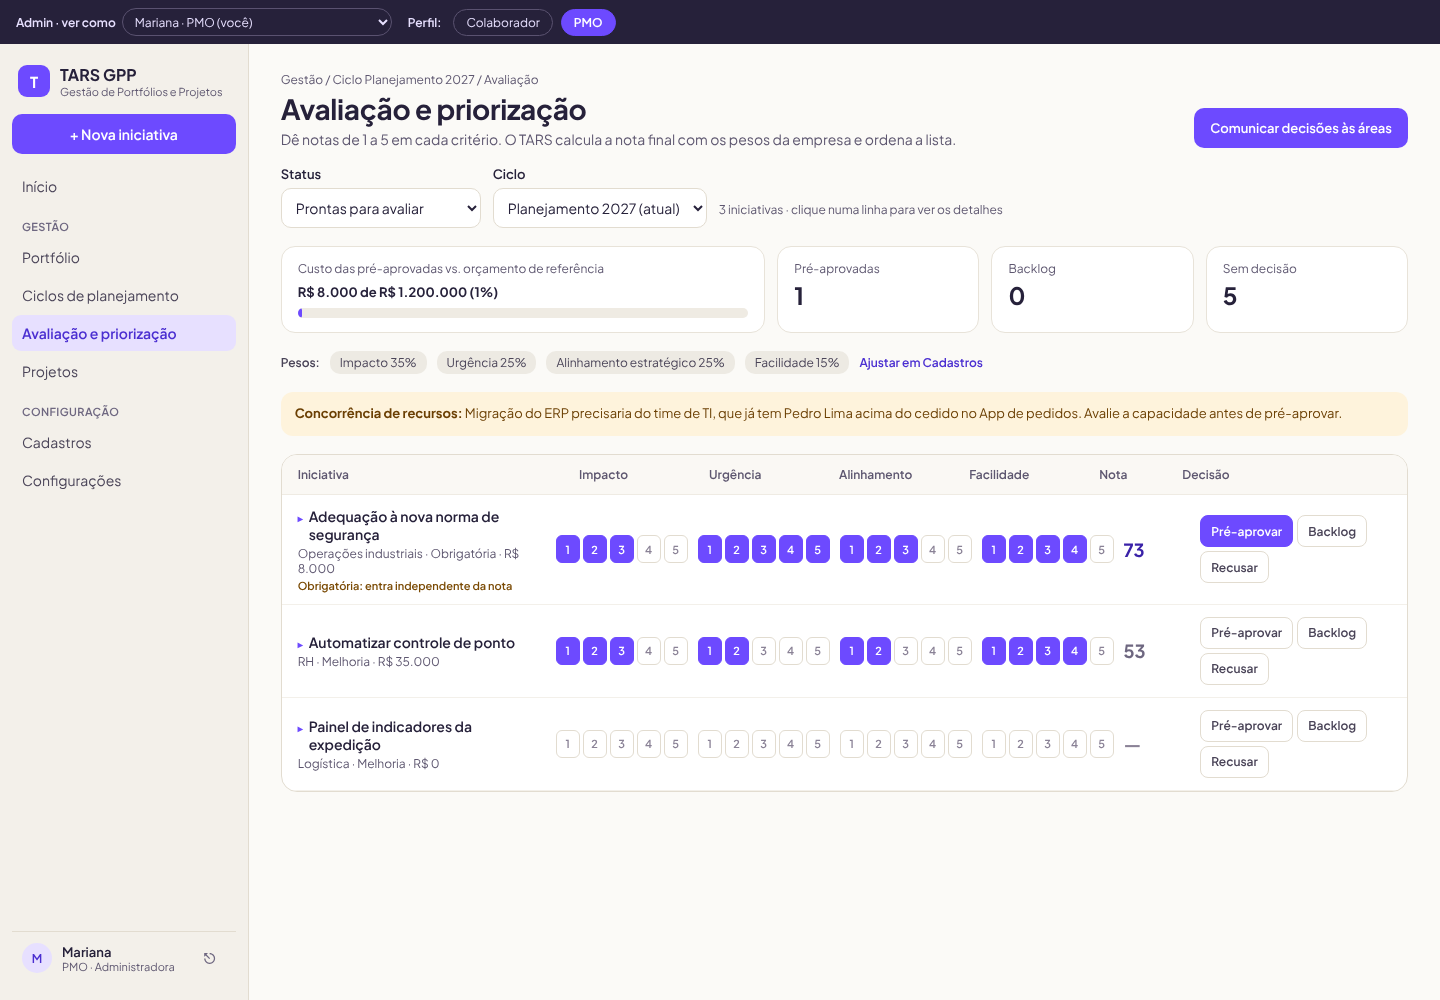
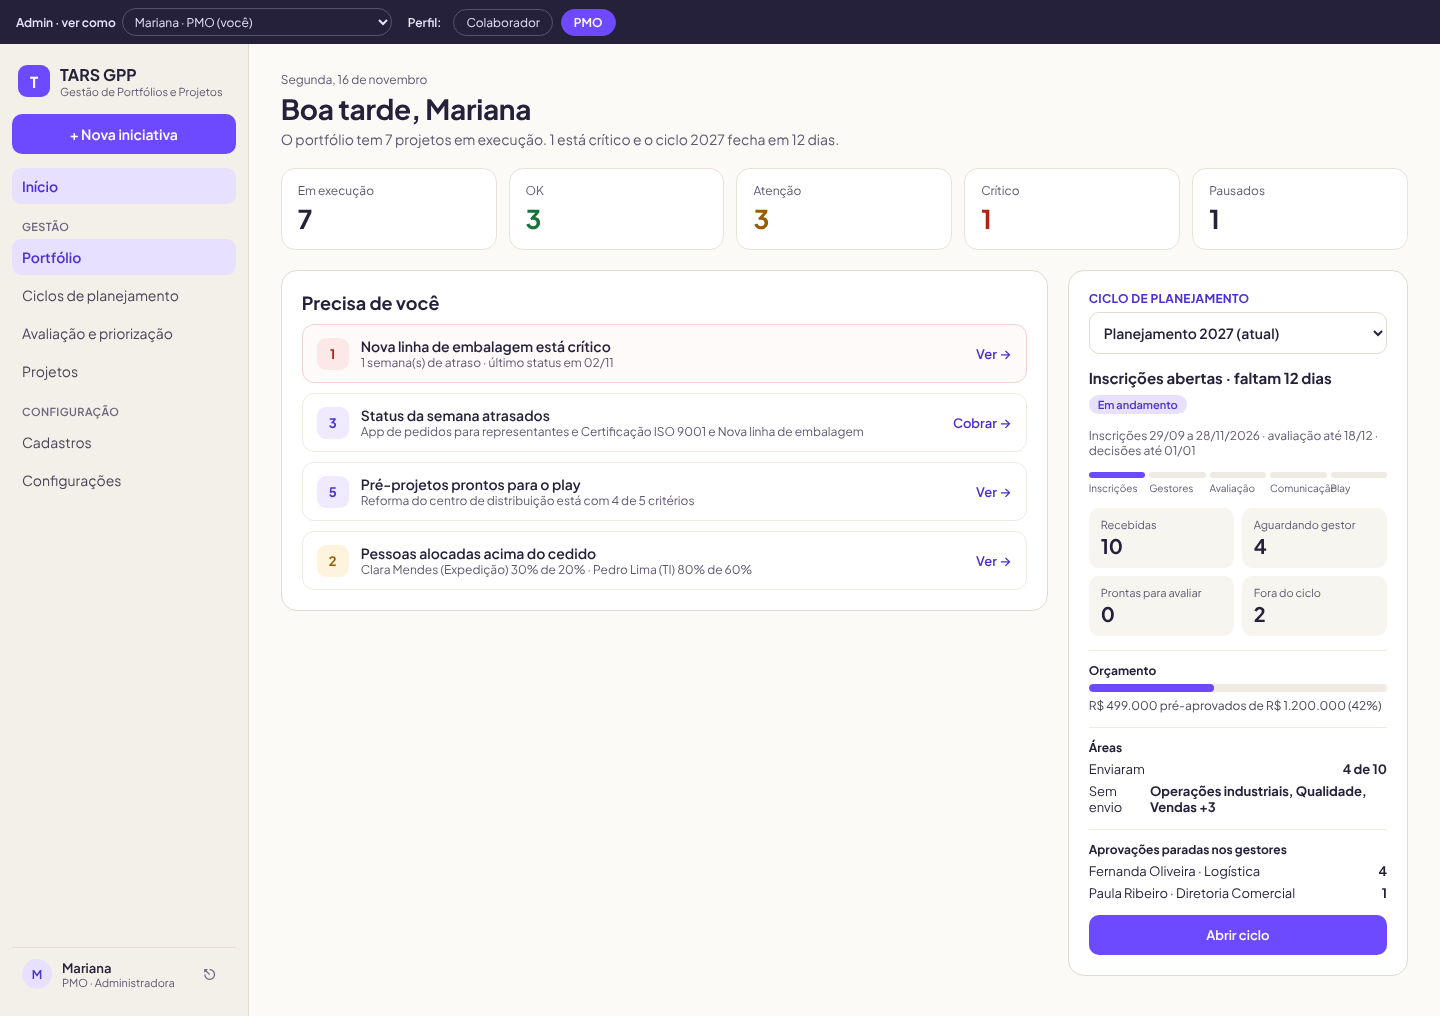
Lentidão: dados numa leva só e retorno visual ao navegar
- carregarOrg: as ~18 consultas saem juntas. As tabelas dos projetos são
  filtradas pela empresa com subconsulta, em vez de esperar a lista de
  iniciativas (eram 3 levas em sequência).
- Pool de conexões de 5 para 20, para as consultas não irem em levas.
- "Ver como" do admin reaproveita a foto da empresa (menos uma etapa).
- Alocações em ordem estável (cadastro de pessoas); antes dependia do banco.
- Barra de carregamento no topo ao clicar em qualquer link interno, e o
  item do menu clicado já aparece selecionado (useLinkStatus).
- e2e: passo novo da barra de carregamento.

Medido com build de produção e banco a 100 ms de distância:
~1,5 s → ~0,43 s por página.

Claude-Session: https://claude.ai/code/session_01PpkADpqr2ygvaZxjuMP9th

diff --git a/src/lib/dados.ts b/src/lib/dados.ts
@@ -1,10 +1,12 @@
 import 'server-only';
 import { cache } from 'react';
-import { eq, inArray } from 'drizzle-orm';
+import { eq, inArray, sql } from 'drizzle-orm';
 import { db, schema as t } from '@/db';
 import type { Raia } from './regras/esteira';
 
-// Carrega a "foto" da empresa numa ida ao banco (consultas em paralelo).
+// Carrega a "foto" da empresa numa ida ao banco: todas as consultas saem juntas, em paralelo.
+// As tabelas dos projetos (fases, tarefas, alocações...) são filtradas pela empresa com uma subconsulta,
+// em vez de esperar a lista de iniciativas chegar para só então pedi-las (eram 3 levas em sequência).
 // Para o porte de um portfólio de PME (centenas de iniciativas) isso é simples e rápido,
 // e deixa todas as telas calculando a partir da mesma base. cache() = uma vez por requisição.
 
@@ -29,7 +31,12 @@ export type Modelo = typeof t.modelos.$inferSelect;
 export type DadosOrg = Awaited<ReturnType<typeof carregar>>;
 
 async function carregar(orgId: string) {
-  const [org, areas, pessoas, ciclos, raias, iniciativas, fasesBiblioteca, modelos, pedidos, avaliacoes] = await Promise.all([
+  const iniciativasDoOrg = sql`(select id from iniciativas where org_id = ${orgId})`;
+  const fasesDoOrg = sql`(select f.id from projeto_fases f join iniciativas i on i.id = f.iniciativa_id where i.org_id = ${orgId})`;
+  const [
+    org, areas, pessoas, ciclos, raias, iniciativas, fasesBiblioteca, modelos, pedidos, avaliacoes,
+    fases, alocacoes, tarefas, marcos, riscos, reports, linhasBase, mudancas,
+  ] = await Promise.all([
     db.query.orgs.findFirst({ where: eq(t.orgs.id, orgId) }),
     db.select().from(t.areas).where(eq(t.areas.orgId, orgId)).orderBy(t.areas.ordem),
     db.select().from(t.pessoas).where(eq(t.pessoas.orgId, orgId)).orderBy(t.pessoas.seq),
@@ -40,21 +47,20 @@ async function carregar(orgId: string) {
     db.select().from(t.modelos).where(eq(t.modelos.orgId, orgId)),
     db.select().from(t.pedidosAlocacao).where(eq(t.pedidosAlocacao.orgId, orgId)).orderBy(t.pedidosAlocacao.createdAt),
     db.select().from(t.avaliacoes).where(eq(t.avaliacoes.orgId, orgId)),
+    db.select().from(t.projetoFases).where(inArray(t.projetoFases.iniciativaId, iniciativasDoOrg)).orderBy(t.projetoFases.ordem),
+    db.select().from(t.alocacoes).where(inArray(t.alocacoes.faseId, fasesDoOrg)),
+    db.select().from(t.tarefas).where(inArray(t.tarefas.iniciativaId, iniciativasDoOrg)).orderBy(t.tarefas.prazo, t.tarefas.createdAt),
+    db.select().from(t.marcos).where(inArray(t.marcos.faseId, fasesDoOrg)).orderBy(t.marcos.data),
+    db.select().from(t.riscos).where(inArray(t.riscos.faseId, fasesDoOrg)),
+    db.select().from(t.statusReports).where(inArray(t.statusReports.iniciativaId, iniciativasDoOrg)),
+    db.select().from(t.linhasBase).where(inArray(t.linhasBase.iniciativaId, iniciativasDoOrg)),
+    db.select().from(t.mudancasBase).where(inArray(t.mudancasBase.iniciativaId, iniciativasDoOrg)),
   ]);
   if (!org) throw new Error('Empresa não encontrada');
 
-  const iniIds = iniciativas.map((i) => i.id);
-  const fases = iniIds.length ? await db.select().from(t.projetoFases).where(inArray(t.projetoFases.iniciativaId, iniIds)).orderBy(t.projetoFases.ordem) : [];
-  const faseIds = fases.map((f) => f.id);
-  const [alocacoes, tarefas, marcos, riscos, reports, linhasBase, mudancas] = await Promise.all([
-    faseIds.length ? db.select().from(t.alocacoes).where(inArray(t.alocacoes.faseId, faseIds)) : [],
-    iniIds.length ? db.select().from(t.tarefas).where(inArray(t.tarefas.iniciativaId, iniIds)).orderBy(t.tarefas.prazo, t.tarefas.createdAt) : [],
-    faseIds.length ? db.select().from(t.marcos).where(inArray(t.marcos.faseId, faseIds)).orderBy(t.marcos.data) : [],
-    faseIds.length ? db.select().from(t.riscos).where(inArray(t.riscos.faseId, faseIds)) : [],
-    iniIds.length ? db.select().from(t.statusReports).where(inArray(t.statusReports.iniciativaId, iniIds)) : [],
-    iniIds.length ? db.select().from(t.linhasBase).where(inArray(t.linhasBase.iniciativaId, iniIds)) : [],
-    iniIds.length ? db.select().from(t.mudancasBase).where(inArray(t.mudancasBase.iniciativaId, iniIds)) : [],
-  ]);
+  // Ordem estável das alocações (antes dependia de como o banco devolvia as linhas): pela ordem do cadastro de pessoas.
+  const posicao = new Map(pessoas.map((p, i) => [p.id, i]));
+  alocacoes.sort((a, b) => (posicao.get(a.pessoaId) ?? 1e9) - (posicao.get(b.pessoaId) ?? 1e9));
 
   return {
     org, areas, pessoas, ciclos, raias: raias as unknown as (Raia & typeof raias[number])[], iniciativas, fasesBiblioteca, modelos,

diff --git a/src/components/Navegacao.tsx b/src/components/Navegacao.tsx
@@ -1,0 +1,71 @@
+'use client';
+
+import { Suspense, useEffect, useState } from 'react';
+import Link, { useLinkStatus } from 'next/link';
+import { usePathname, useSearchParams } from 'next/navigation';
+
+// Retorno visual imediato ao navegar: as páginas são montadas no servidor, então entre o clique
+// e a tela nova há uma espera. Sem sinal nenhum, parece que o app travou.
+
+const KEYFRAMES = '@keyframes tars-carregando { 0% { transform: translateX(-100%) } 100% { transform: translateX(250%) } }';
+
+function Barra() {
+  return (
+    <div role="progressbar" aria-label="Carregando" style={{ position: 'fixed', top: 0, left: 0, right: 0, height: 3, zIndex: 1000, overflow: 'hidden', background: 'rgba(109, 74, 255, 0.15)' }}>
+      <style>{KEYFRAMES}</style>
+      <div style={{ width: '40%', height: '100%', background: '#6D4AFF', animation: 'tars-carregando 1s ease-in-out infinite' }} />
+    </div>
+  );
+}
+
+/** Barra de progresso no topo enquanto qualquer link interno carrega a próxima tela. */
+function BarraDeNavegacaoInterna() {
+  const pathname = usePathname();
+  const busca = useSearchParams();
+  const [carregando, setCarregando] = useState(false);
+
+  // chegou na tela nova: some a barra
+  useEffect(() => setCarregando(false), [pathname, busca]);
+
+  useEffect(() => {
+    function aoClicar(e: MouseEvent) {
+      if (e.button !== 0 || e.metaKey || e.ctrlKey || e.shiftKey || e.altKey) return;
+      const a = (e.target as HTMLElement | null)?.closest('a');
+      if (!a || a.target === '_blank' || a.hasAttribute('download')) return;
+      const url = new URL(a.href, window.location.href);
+      if (url.origin !== window.location.origin) return;
+      if (url.pathname === window.location.pathname && url.search === window.location.search) return; // mesma tela (ex.: só #âncora)
+      setCarregando(true);
+    }
+    // fase de captura: roda antes do Link do Next, que cancela o clique padrão para navegar sem recarregar
+    document.addEventListener('click', aoClicar, true);
+    return () => document.removeEventListener('click', aoClicar, true);
+  }, []);
+
+  // segurança: se a navegação falhar, a barra não fica presa
+  useEffect(() => {
+    if (!carregando) return;
+    const t = setTimeout(() => setCarregando(false), 20000);
+    return () => clearTimeout(t);
+  }, [carregando]);
+
+  return carregando ? <Barra /> : null;
+}
+
+export function BarraDeNavegacao() {
+  return <Suspense fallback={null}><BarraDeNavegacaoInterna /></Suspense>;
+}
+
+/** Item do menu lateral: ao clicar, já aparece como selecionado enquanto a tela carrega. */
+export function ItemMenu({ href, rotulo, ativo, estilo, estiloAtivo }: { href: string; rotulo: string; ativo?: boolean; estilo: React.CSSProperties; estiloAtivo: React.CSSProperties }) {
+  return (
+    <Link href={href} aria-current={ativo ? 'page' : undefined} style={{ position: 'relative', display: 'block', borderRadius: 9 }}>
+      <Conteudo rotulo={rotulo} ativo={!!ativo} estilo={estilo} estiloAtivo={estiloAtivo} />
+    </Link>
+  );
+}
+
+function Conteudo({ rotulo, ativo, estilo, estiloAtivo }: { rotulo: string; ativo: boolean; estilo: React.CSSProperties; estiloAtivo: React.CSSProperties }) {
+  const { pending } = useLinkStatus();
+  return <span style={ativo || pending ? estiloAtivo : estilo}>{rotulo}</span>;
+}

diff --git a/src/components/Shell.tsx b/src/components/Shell.tsx
@@ -4,6 +4,7 @@ import { iniciais, rotuloAdministrador, rotuloGestorCurto } from '@/lib/regras/p
 import type { Sessao, Perfil } from '@/lib/sessao';
 import type { DadosOrg } from '@/lib/dados';
 import { VerComo } from './VerComo';
+import { BarraDeNavegacao, ItemMenu } from './Navegacao';
 
 // Moldura comum: barra "ver como" (admin ou quem tem mais de um perfil), menu lateral por perfil e conteúdo.
 
@@ -74,6 +75,7 @@ export function Shell({ sessao, dados, atual, children, mainStyle }: { sessao: S
 
   return (
     <div style={s("font-family: 'Plus Jakarta Sans', 'Segoe UI', system-ui, sans-serif; color: #26213A; background: #FBFAF7; min-height: 100vh; display: flex; flex-direction: column")}>
+      <BarraDeNavegacao />
       {mostrarBarra && (
         <VerComo
           perfis={sessao.perfis.map((x) => ({ id: x, rotulo: ROTULO_PERFIL[x] }))}
@@ -93,7 +95,7 @@ export function Shell({ sessao, dados, atual, children, mainStyle }: { sessao: S
           <div key={i} style={s('display: contents')}>
             {sec.titulo && <span style={sSecao}>{sec.titulo}</span>}
             {sec.itens.map((x) => (
-              <Link key={x.href} href={x.href} aria-current={x.ativo ? 'page' : undefined} style={x.ativo ? sItemAtivo : sItem}>{x.rotulo}</Link>
+              <ItemMenu key={x.href} href={x.href} rotulo={x.rotulo} ativo={x.ativo} estilo={sItem} estiloAtivo={sItemAtivo} />
             ))}
           </div>
         ))}

diff --git a/src/lib/sessao.ts b/src/lib/sessao.ts
@@ -5,7 +5,7 @@ import { redirect } from 'next/navigation';
 import { eq } from 'drizzle-orm';
 import { db, schema as t } from '@/db';
 import { auth } from './auth';
-import type { Pessoa } from './dados';
+import { carregarOrg, type Pessoa } from './dados';
 
 export type Perfil = 'colaborador' | 'gestor' | 'gp' | 'pmo';
 export const PERFIS: Perfil[] = ['colaborador', 'gestor', 'gp', 'pmo'];
@@ -73,10 +73,8 @@ export const getSessao = cache(async (): Promise<Sessao | null> => {
   let personas: Persona[] = [];
   if (real.admin) {
     // Admin pode "ser" qualquer pessoa cadastrada (inclusive quem ainda não fez o 1º acesso) para validar o fluxo.
-    const [todas, areas] = await Promise.all([
-      db.select().from(t.pessoas).where(eq(t.pessoas.orgId, real.orgId)).orderBy(t.pessoas.seq),
-      db.select({ id: t.areas.id, nome: t.areas.nome }).from(t.areas).where(eq(t.areas.orgId, real.orgId)),
-    ]);
+    // Reaproveita a foto da empresa (a página vai usá-la de qualquer jeito; cache() faz carregar uma vez só por requisição).
+    const { pessoas: todas, areas } = await carregarOrg(real.orgId);
     const internas = todas.filter((p) => !p.externo);
     pessoa = internas.find((p) => p.id === personaCookie) ?? real;
     const nomeArea = (id: string | null) => areas.find((a) => a.id === id)?.nome ?? '';

diff --git a/src/db/index.ts b/src/db/index.ts
@@ -16,8 +16,9 @@ const g = globalThis as unknown as { __tarsDb?: DBReal };
 
 function conectar(): DBReal {
   if (!g.__tarsDb) {
-    // prepare: false é exigido pelos poolers (Supabase/Neon em modo transação)
-    g.__tarsDb = drizzle(postgres(databaseUrl(), { prepare: false, max: 5 }), { schema });
+    // prepare: false é exigido pelos poolers (Supabase/Neon em modo transação).
+    // max: 20 deixa as ~18 consultas de carregarOrg irem ao banco ao mesmo tempo (com 5, iam em levas e a página esperava várias idas e voltas).
+    g.__tarsDb = drizzle(postgres(databaseUrl(), { prepare: false, max: 20 }), { schema });
   }
   return g.__tarsDb;
 }
